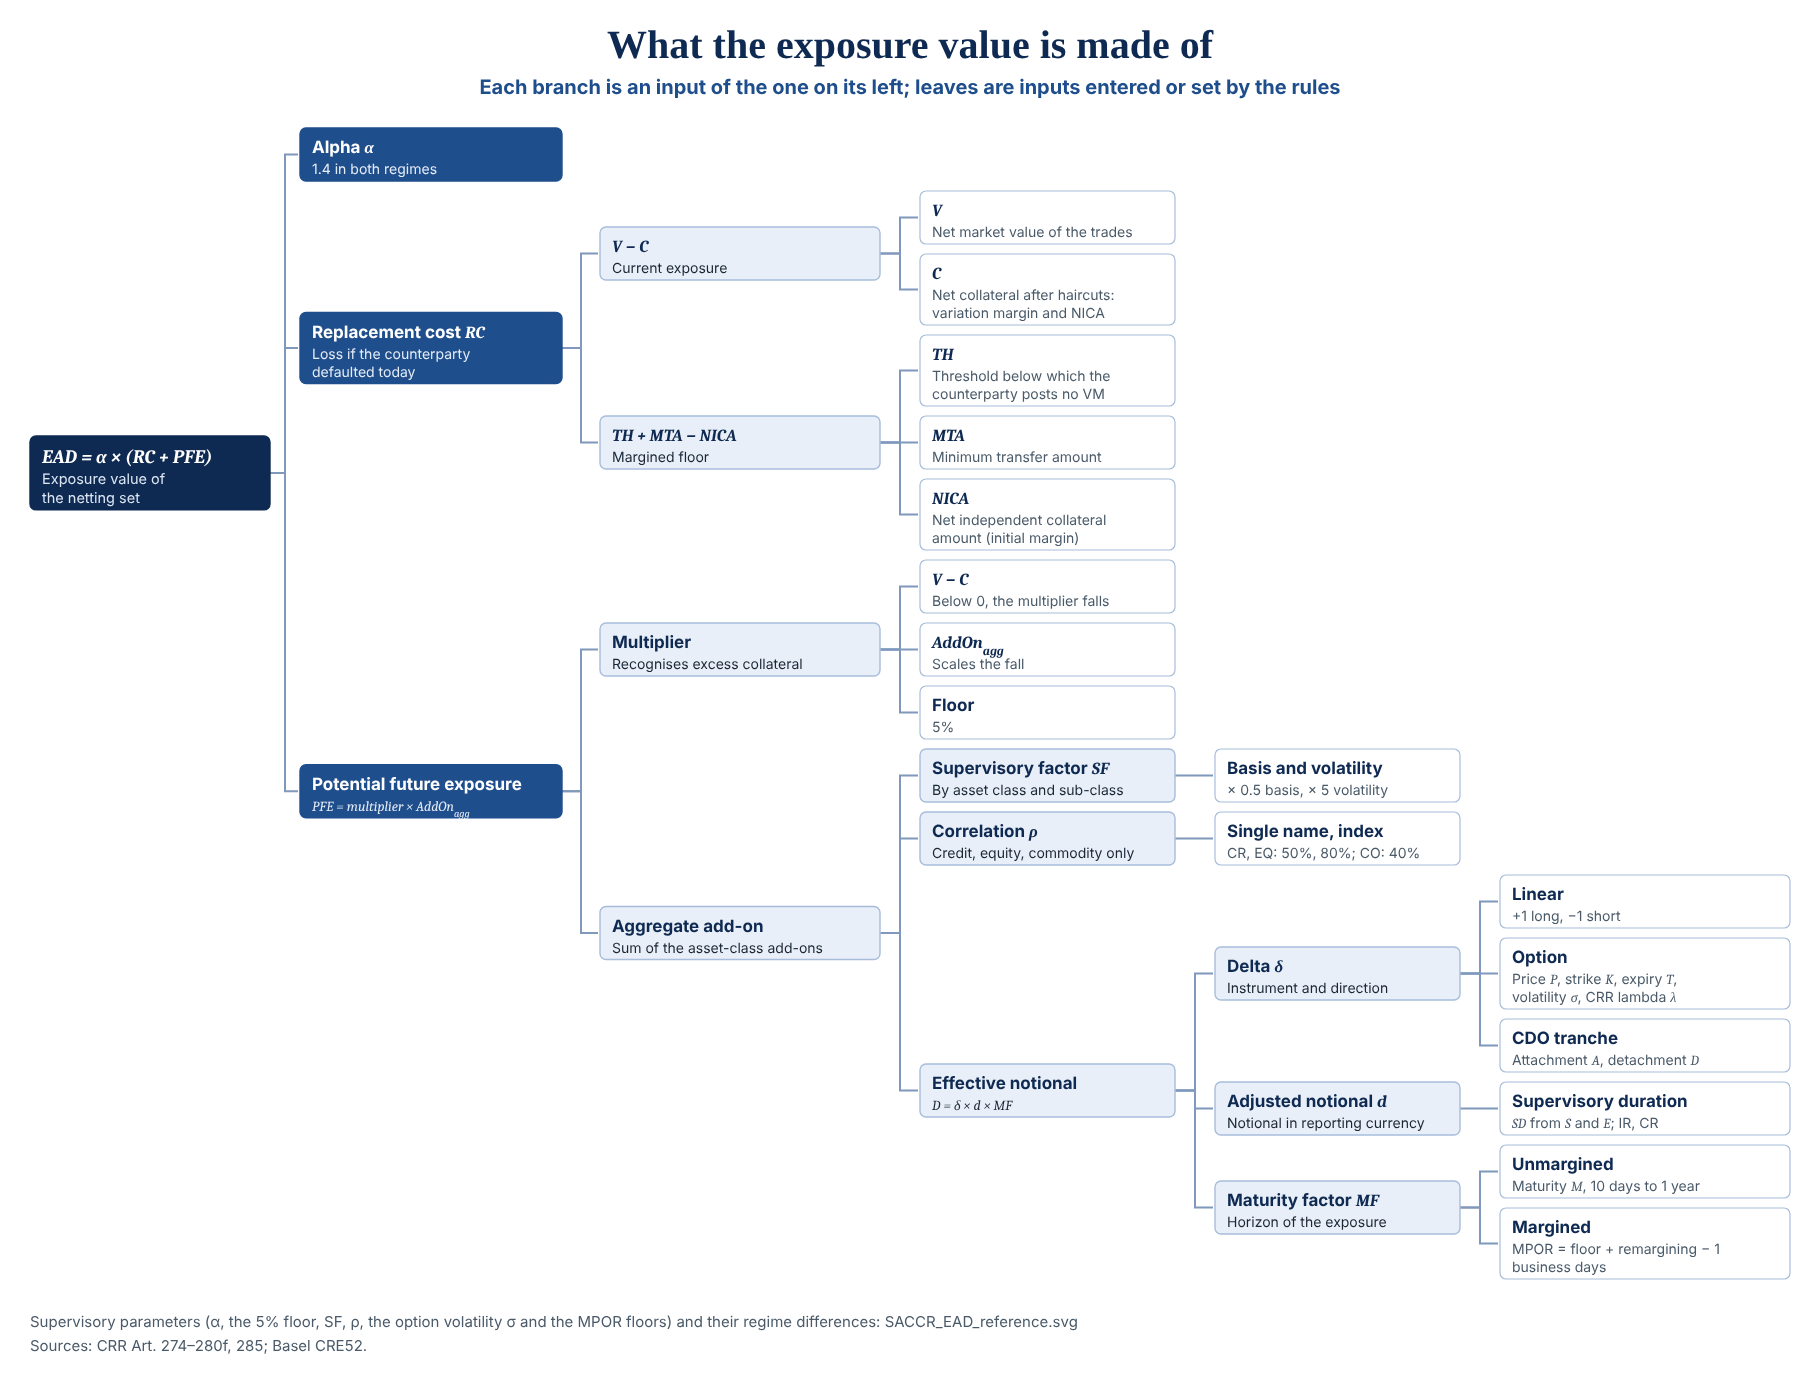
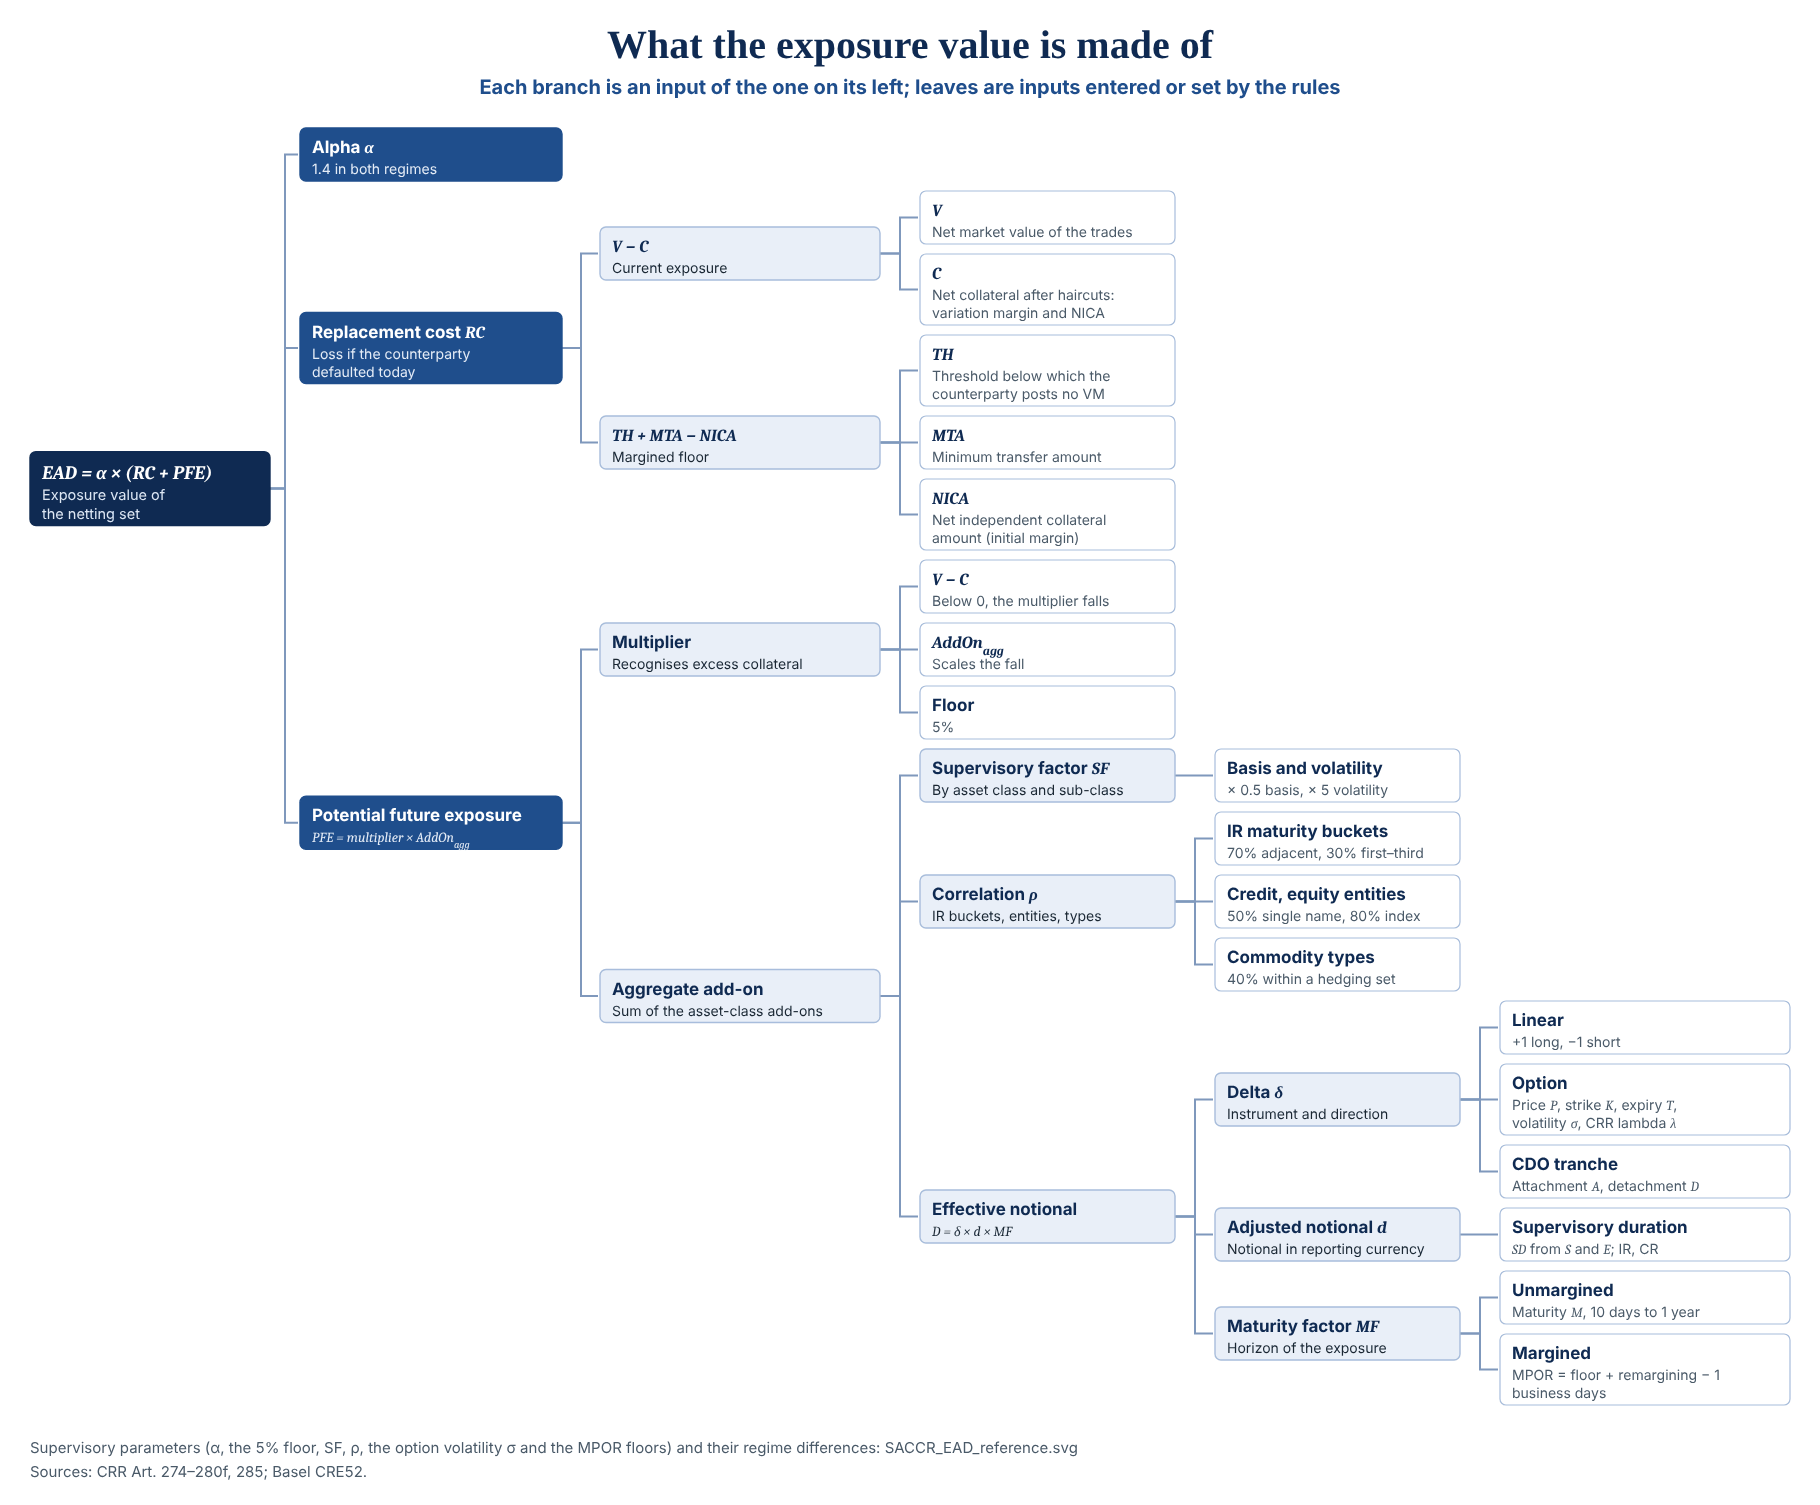
Correct the aggregation steps the explainers showed
Review findings, each checked against CORE_Engine.ComputeHedgingSets:
- FX and OT hedging-set add-ons are SF x |net effective notional|; the
  aggregation picture now shows the absolute value.
- Credit and equity entities, like commodity types, are combined with
  their correlations inside each hedging set; every asset class then
  sums its hedging-set add-ons with no offset between them. Both the
  aggregation picture and the RC/PFE picture had the correlation at the
  asset-class level.
- Basis and volatility trades form hedging sets of their own in every
  asset class, not only in OT.
- The tree's correlation branch now includes the IR maturity buckets
  (70% adjacent, 30% first and third) beside the credit, equity and
  commodity correlations.

PNGs re-rendered; the tree is now 1820 x 1505 px. tools/check.py passes.

diff --git a/docs/assets/README.md b/docs/assets/README.md
@@ -166,7 +166,7 @@ source; the card holds the parameters and the full formulas.
   The value path in `SACCR_RC_PFE.svg` is illustrative, not data.
 - **Rendering:** the SVGs are the source. `SACCR_aggregation.png`,
   `SACCR_EAD_tree.png` and `SACCR_RC_PFE.png`, used by the Wiki, are rendered
-  from them at their own size (1800 x 1530, 1820 x 1379 and 1800 x 1060 px)
+  from them at their own size (1800 x 1530, 1820 x 1505 and 1800 x 1060 px)
   with headless Chromium at a device scale factor of 1, then quantized to 256
   colours as the screenshots above. Render them again whenever an SVG
   changes, and update the pictures when a formula or a supervisory parameter
